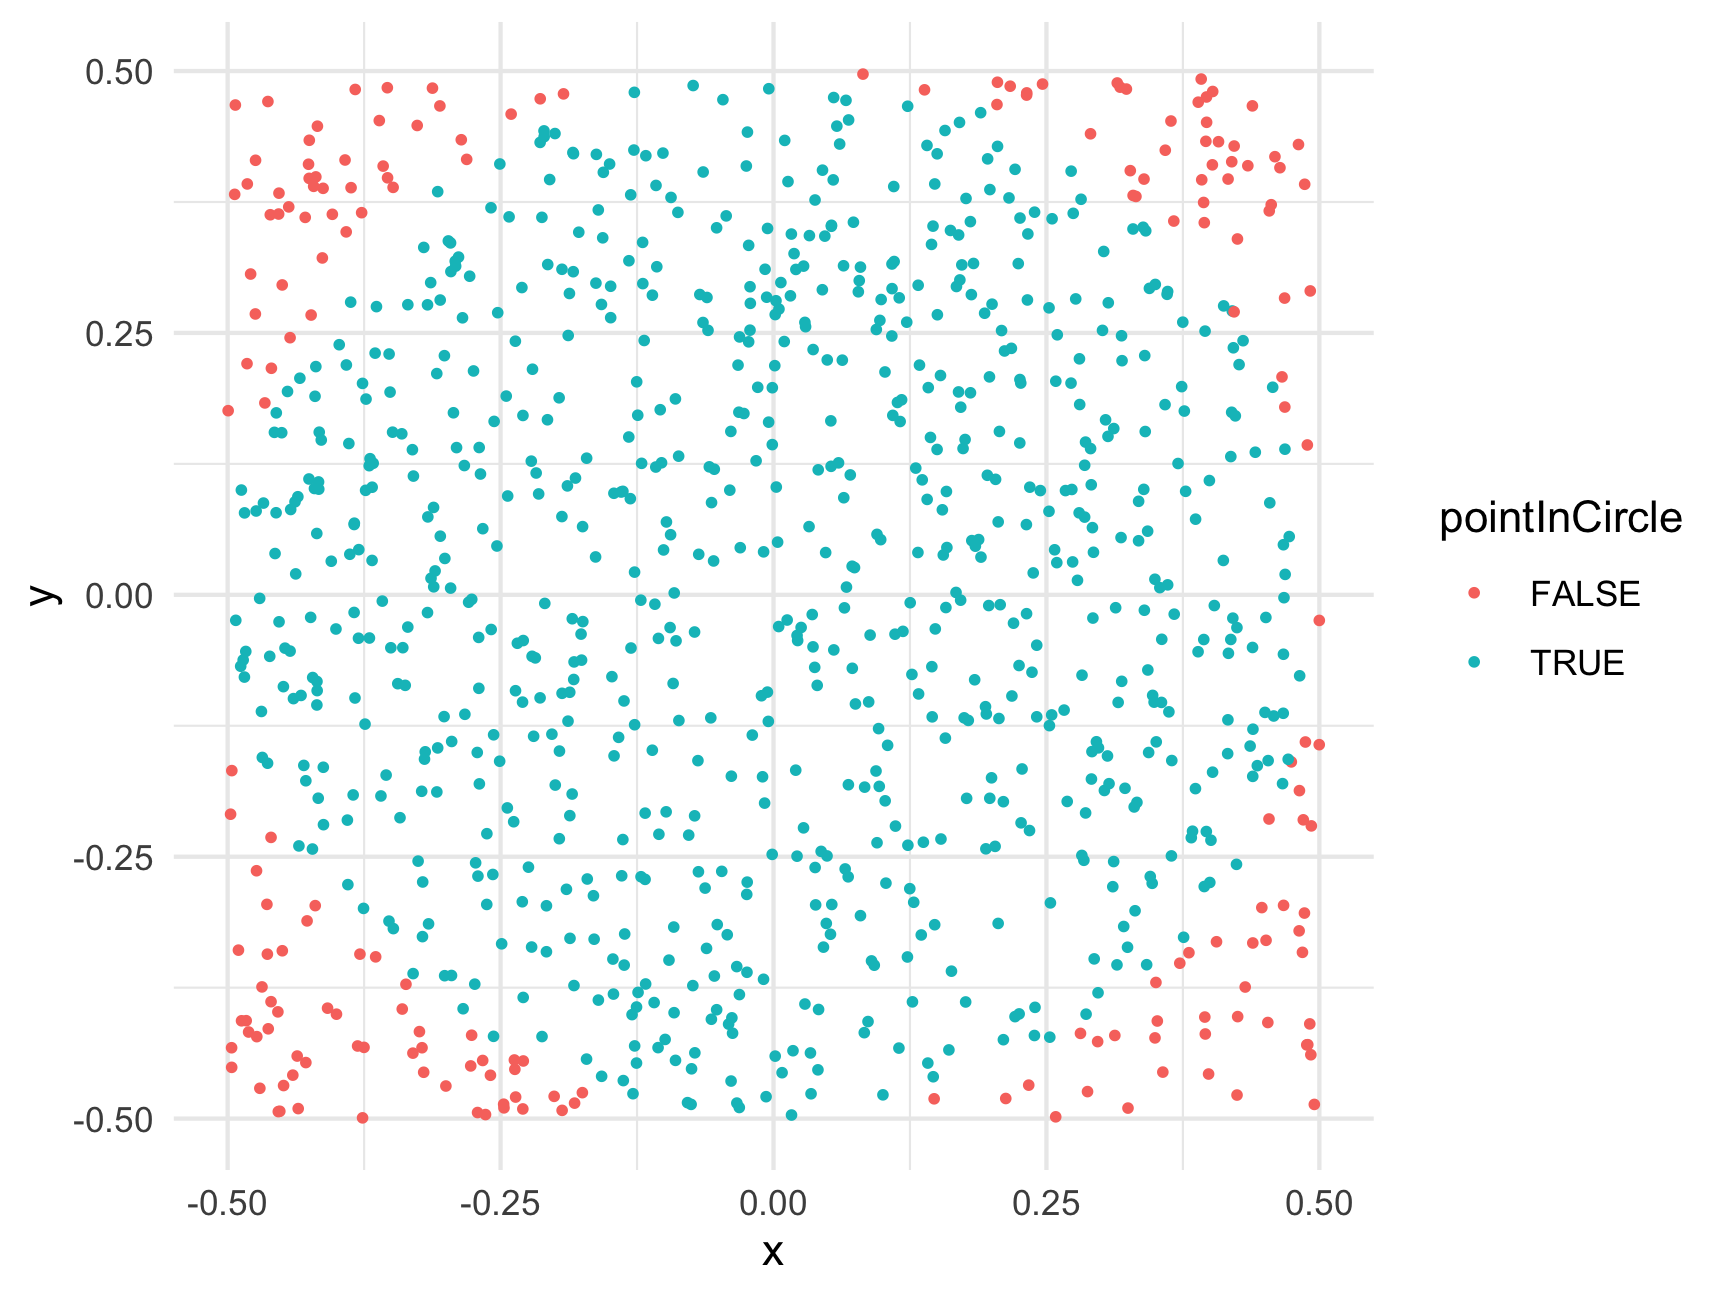
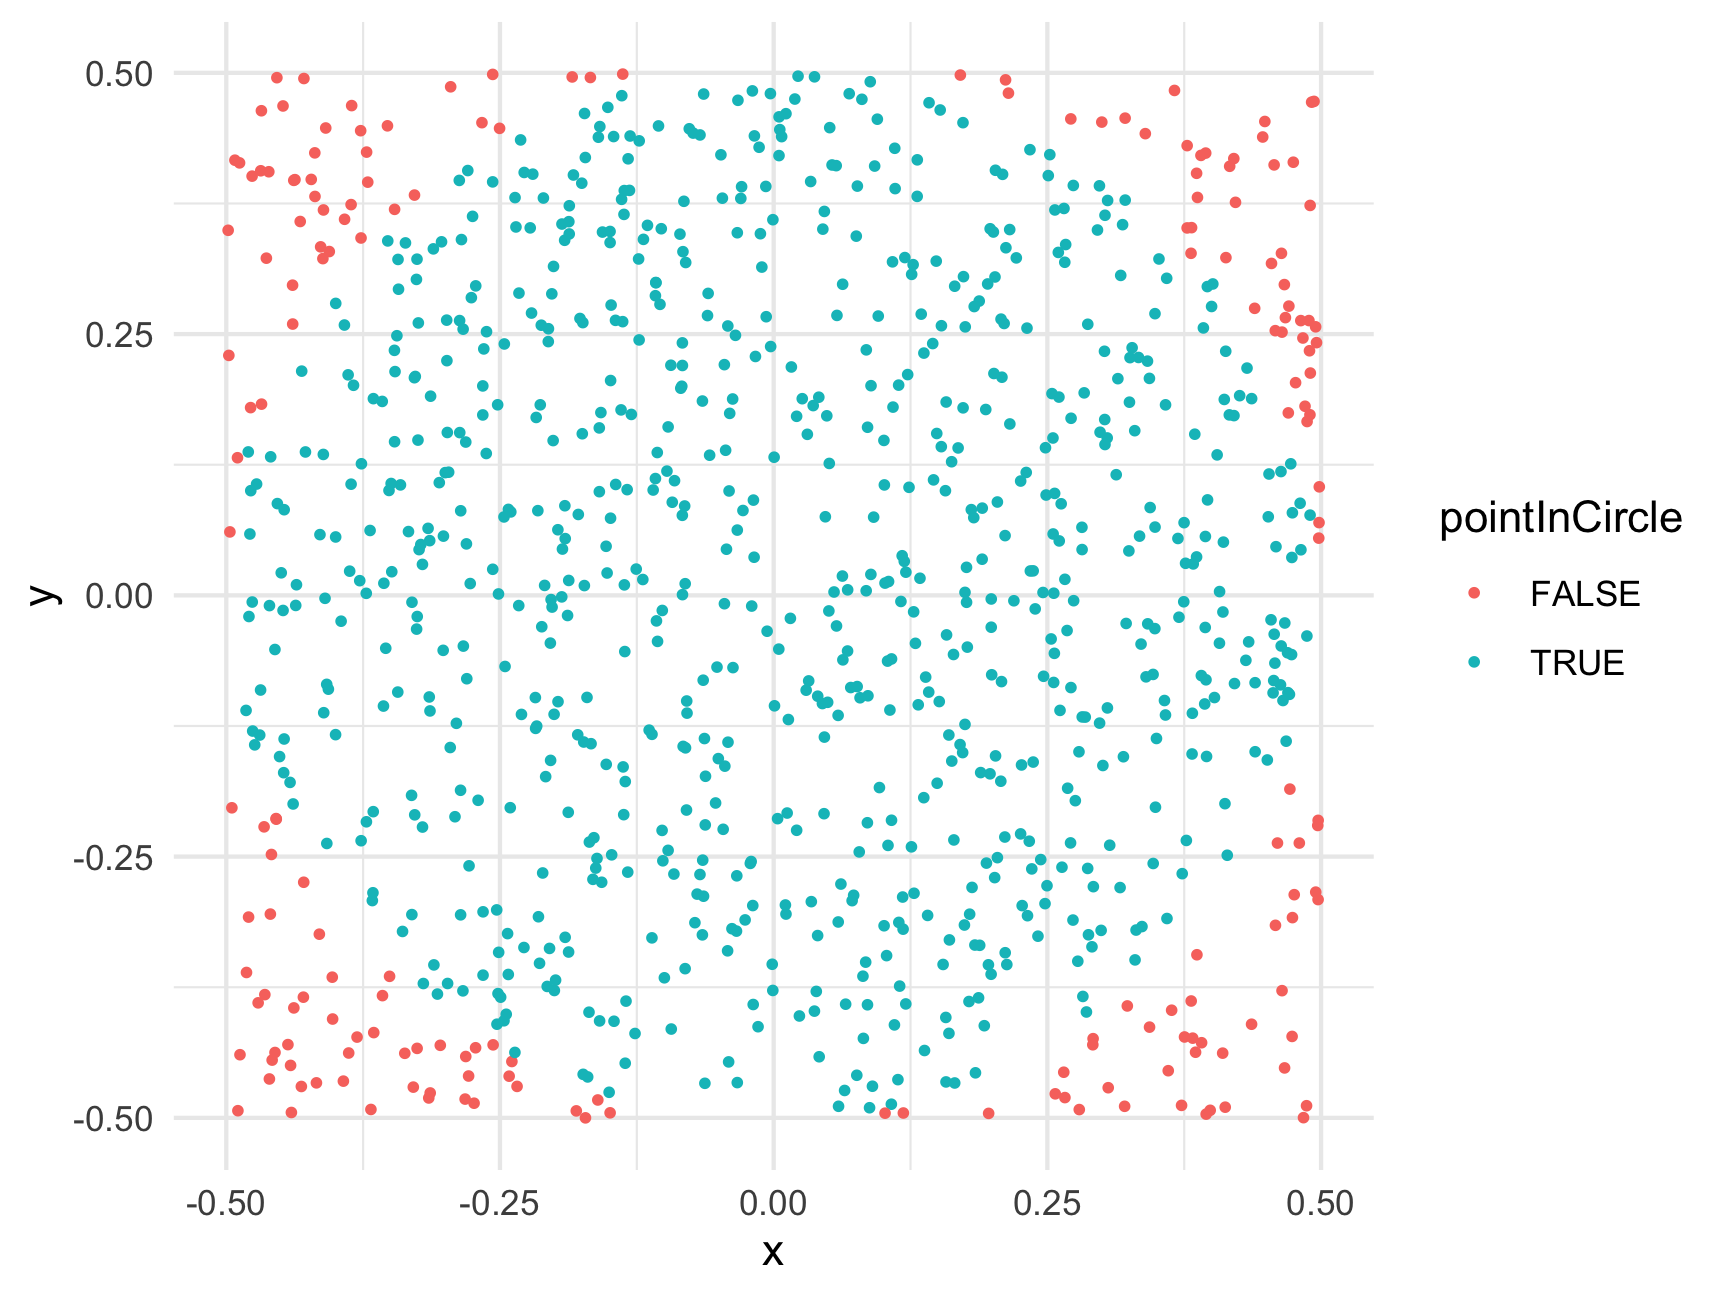
Deploying to gh-pages from  @ 3074b575de84c36362743474c61285cf9797bc9e 🚀

diff --git a/r13-monte-carlo-methods.html b/r13-monte-carlo-methods.html
@@ -805,11 +805,11 @@ ratio &lt;- sum(belowCurve) / numTrials
 totalArea &lt;- (7 - 3) * 7^2 # Rectangle length x height = 196
 areaUnderCurve &lt;- ratio * totalArea
 areaUnderCurve</code></pre>
-<pre><code>#&gt; [1] 105.6244</code></pre>
-<p>So, using Monte Carlo simulation with 100,000 points, we estimate that the area under the curve is 105.6244. How’d we do? Well, if you’re familiar with calculus, the integral of <span class="math inline">\(f(x) = x^2\)</span> has a closed-form solution (<span class="math inline">\(\frac{x^3}{3} + C\)</span>), so we can check our estimate against the pure-math solution:</p>
+<pre><code>#&gt; [1] 105.397</code></pre>
+<p>So, using Monte Carlo simulation with 100,000 points, we estimate that the area under the curve is 105.39704. How’d we do? Well, if you’re familiar with calculus, the integral of <span class="math inline">\(f(x) = x^2\)</span> has a closed-form solution (<span class="math inline">\(\frac{x^3}{3} + C\)</span>), so we can check our estimate against the pure-math solution:</p>
 <p><span class="math display">\[\int_{3}^{7} x^2 \mathrm{dx} = \left ( \frac{x^3}{3} \right ) \Big|_3^7 = \frac{7^3}{3} - \frac{3^3}{3} = 105.33\bar{3}\]</span></p>
-<p>So our estimate error is: <code>105.333 -</code> <code>105.6244</code> <code>=</code> <code>-0.2910667</code>.</p>
-<p>That’s an error of just 0.28 % - not bad!</p>
+<p>So our estimate error is: <code>105.333 -</code> <code>105.39704</code> <code>=</code> <code>-0.0637067</code>.</p>
+<p>That’s an error of just 0.06 % - not bad!</p>
 <hr />
 </div>
 <div id="monte-carlo-pi" class="section level1">
@@ -839,13 +839,13 @@ points &lt;- data.frame(
     x = runif(numTrials, -0.5, 0.5),
     y = runif(numTrials, -0.5, 0.5))
 head(points)</code></pre>
-<pre><code>#&gt;              x           y
-#&gt; 1  0.394586797  0.35525975
-#&gt; 2  0.432058335 -0.37439149
-#&gt; 3  0.291694566 -0.14966537
-#&gt; 4  0.055117485  0.47470372
-#&gt; 5  0.003762205  0.05029731
-#&gt; 6 -0.351220485  0.19352274</code></pre>
+<pre><code>#&gt;            x            y
+#&gt; 1  0.4050617  0.134427084
+#&gt; 2 -0.4597301 -0.305021284
+#&gt; 3  0.2846047 -0.116504068
+#&gt; 4  0.4072846  0.003609071
+#&gt; 5 -0.2169065  0.170236546
+#&gt; 6  0.2568580  0.368809159</code></pre>
 <p>For this example, we’re putting the points in a data frame to make it easier to work with. Now that we have random x and y points, let’s compute the radius to each point (the distance from <code>(x, y) = (0, 0)</code>) so we can determine which points fall inside the circle (which has a radius of 0.5):</p>
 <pre class="r"><code>library(dplyr)
 points &lt;- points %&gt;%
@@ -862,9 +862,9 @@ ggplot(points) +
 <pre class="r"><code>ratio &lt;- sum(points$pointInCircle) / nrow(points)
 piApprox &lt;- 4 * ratio
 piApprox</code></pre>
-<pre><code>#&gt; [1] 3.216</code></pre>
-<p>So our estimate error is: <code>3.1415 -</code> <code>3.216</code> <code>=</code> <code>0.0744073</code>.</p>
-<p>That’s an error of just 2.37 % - not bad for only 1,000 points!</p>
+<pre><code>#&gt; [1] 3.24</code></pre>
+<p>So our estimate error is: <code>3.1415 -</code> <code>3.24</code> <code>=</code> <code>0.0984073</code>.</p>
+<p>That’s an error of just 3.13 % - not bad for only 1,000 points!</p>
 <p>To get an even better estimate of <span class="math inline">\(\pi\)</span>, we can increase N. Let’s see what we get with 100,000 trials:</p>
 <pre class="r"><code>numTrials &lt;- 100000
 points &lt;- data.frame(
@@ -876,13 +876,13 @@ points &lt;- data.frame(
 ratio &lt;- sum(points$pointInCircle) / nrow(points)
 piApprox &lt;- 4 * ratio
 piApprox</code></pre>
-<pre><code>#&gt; [1] 3.14136</code></pre>
+<pre><code>#&gt; [1] 3.13784</code></pre>
 <pre class="r"><code># Compute error:
 error &lt;- piApprox - pi
 percentError &lt;- round(100*abs(error / pi), 2)
 percentError</code></pre>
-<pre><code>#&gt; [1] 0.01</code></pre>
-<p>By increasing the number of trials from 1,000 to 100,000, we improved our estimate error from 2.37 % to 0.01 %!</p>
+<pre><code>#&gt; [1] 0.12</code></pre>
+<p>By increasing the number of trials from 1,000 to 100,000, we improved our estimate error from 3.13 % to 0.12 %!</p>
 <hr />
 <p><strong>Page sources</strong>:</p>
 <p>Some content on this page has been modified from other courses, including:</p>

diff --git a/r2-functions-packages.html b/r2-functions-packages.html
@@ -763,7 +763,7 @@ div.tocify {
 <p>Here the letters <code>sqrt</code> are short for “square root,” and the value inside the <code>()</code> is the “argument” to the function. In the example above, the value <code>225</code> is the “argument”.</p>
 <p>Keep in mind that not all functions have (or require) arguments:</p>
 <pre class="r"><code>date() # Returns the current date and time</code></pre>
-<pre><code>#&gt; [1] &quot;Wed Jan 19 14:58:09 2022&quot;</code></pre>
+<pre><code>#&gt; [1] &quot;Wed Jan 19 15:00:24 2022&quot;</code></pre>
 <p>(the date above is the date this page was last built)</p>
 <div id="multiple-arguments" class="section level2">
 <h2>Multiple arguments</h2>
@@ -981,9 +981,9 @@ library(packagename)   # This also works</code></pre>
 <p>Now that you have the package installed on your computer, try loading it using <code>library(wikifacts)</code>, then trying using some of it’s functions:</p>
 <pre class="r"><code>library(wikifacts) # Load the library</code></pre>
 <pre class="r"><code>wiki_randomfact()</code></pre>
-<pre><code>#&gt; [1] &quot;Did you know that Microsoft&#39;s Brad Smith has filed multiple data privacy lawsuits against the US government? (Courtesy of Wikipedia)&quot;</code></pre>
+<pre><code>#&gt; [1] &quot;Here&#39;s some news from 30 October 2017. President of Kazakhstan Nursultan Nazarbayev (pictured) announces that the Kazakh language will begin using a Latin script, rather than the current Cyrillic script. (Courtesy of Wikipedia)&quot;</code></pre>
 <pre class="r"><code>wiki_didyouknow()</code></pre>
-<pre><code>#&gt; [1] &quot;Did you know that the 1987 FA Charity Shield was played one week early to allow Diego Maradona, Gary Lineker, Michel Platini and Josimar to play alongside one another at Wembley Stadium? (Courtesy of Wikipedia)&quot;</code></pre>
+<pre><code>#&gt; [1] &quot;Did you know that V. S. Lelchuk joined dissident and revisionist historians in a \&quot;historical glasnost\&quot; during the collapse of the Soviet Union? (Courtesy of Wikipedia)&quot;</code></pre>
 <p>In case you’re wondering, the only thing this package does is generate messages containing random facts from <a href="https://www.wikipedia.org/">Wikipedia</a>.</p>
 </div>
 <div id="using-only-some-package-functions" class="section level2">
@@ -994,7 +994,7 @@ library(packagename)   # This also works</code></pre>
 </blockquote>
 <p>Here I use the name of the <em>package</em> followed by <code>::</code> to tell R that I’m looking for a function that is in that package. For example, if I didn’t want to load the whole <strong>wikifacts</strong> library but still wanted to use the <code>wiki_randomfact()</code> function, I could do this:</p>
 <pre class="r"><code>wikifacts::wiki_randomfact()</code></pre>
-<pre><code>#&gt; [1] &quot;Did you know that the Carmo Planetarium (pictured) in São Paulo, Brazil, uses 9,000 optical fibres and 109 lenses to portray the night sky? (Courtesy of Wikipedia)&quot;</code></pre>
+<pre><code>#&gt; [1] &quot;Did you know that the ETC Bollywood Business Awards are the only awards in India that judge films based on their box-office performance? (Courtesy of Wikipedia)&quot;</code></pre>
 <p>Where this is particularly handy is when two packages have a function with the same name. If you load both library, R might not know which function to use. In those cases, it’s best to also provide the <strong>package</strong> name. For example, let’s say there was a package called <strong>apples</strong> and another called <strong>bananas</strong>, and each had a function named <code>fruitName()</code>. If I wanted to use each of them in my code, I would need to specify the package names like this:</p>
 <pre class="r"><code>apples::fruitName()
 bananas::fruitName()</code></pre>

diff --git a/hw2-functions-packages.html b/hw2-functions-packages.html
@@ -738,7 +738,7 @@ $(document).ready(function () {
 </div>
 <div id="polya-problem-solving-2-collaborative-20" class="section level3">
 <h3>3) Polya problem solving 2 [COLLABORATIVE, 20%]</h3>
-<p>Kevin is deciding between purchasing a Chevy Bolt, which sells for $29,390 (after subsidies), and a Toyota Camry, which sells for $24,000. The Bolt efficiency is 28 kWh of electricity per 100 miles while the Camry efficiency is 28 miles per gallon (mpg) on average. The average price of electricity (in DC, where Kevin lives) is $0.13 / kWh, and the average price of gasoline is $2.20 / gallon. Kevin drives 12,000 miles each year on average.</p>
+<p>Kevin is deciding between purchasing a Chevy Bolt, which sells for $29,390 (after subsidies), and a Toyota Camry, which sells for $24,000. The Bolt efficiency is 28 kWh of electricity per 100 miles while the Camry efficiency is 28 miles per gallon (mpg) on average. The average price of electricity (in DC, where Kevin lives) is $0.13 / kWh, and the average price of gasoline is $3.00 / gallon. Kevin drives 12,000 miles each year on average.</p>
 <p>To help him make a decision about which car to buy, answer the following questions:</p>
 <ol style="list-style-type: lower-alpha">
 <li>How long (in years) would he have to drive the Bolt for the money he saves in fuel savings to be greater than the price premium compared to the Camry?</li>
